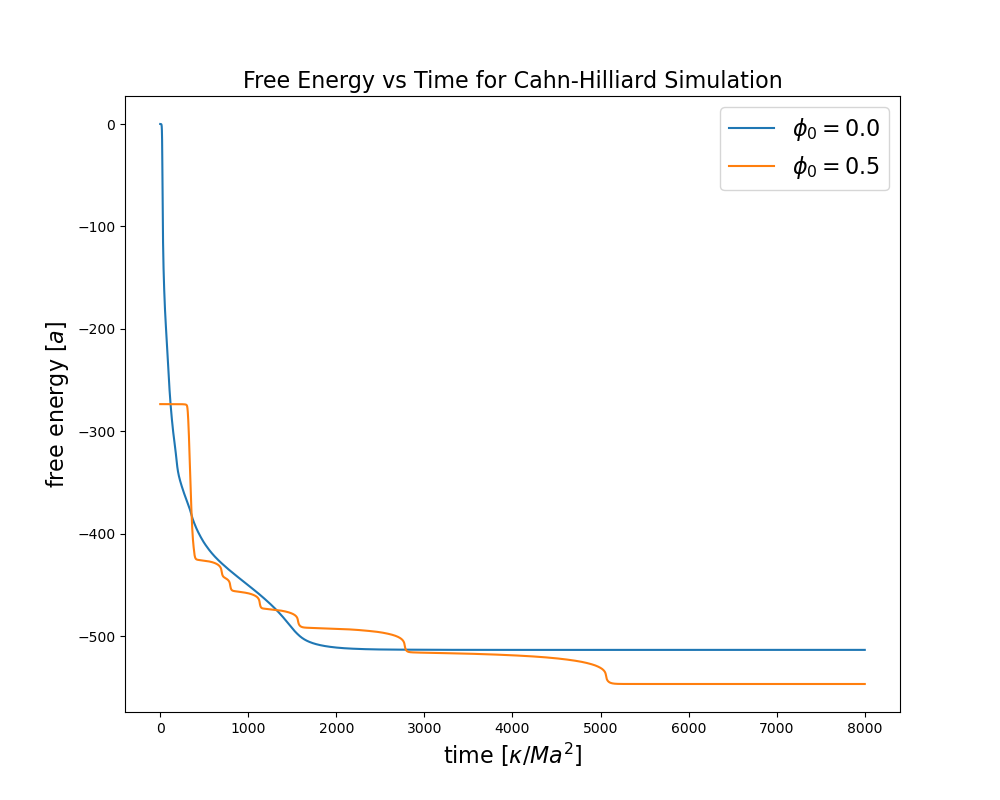
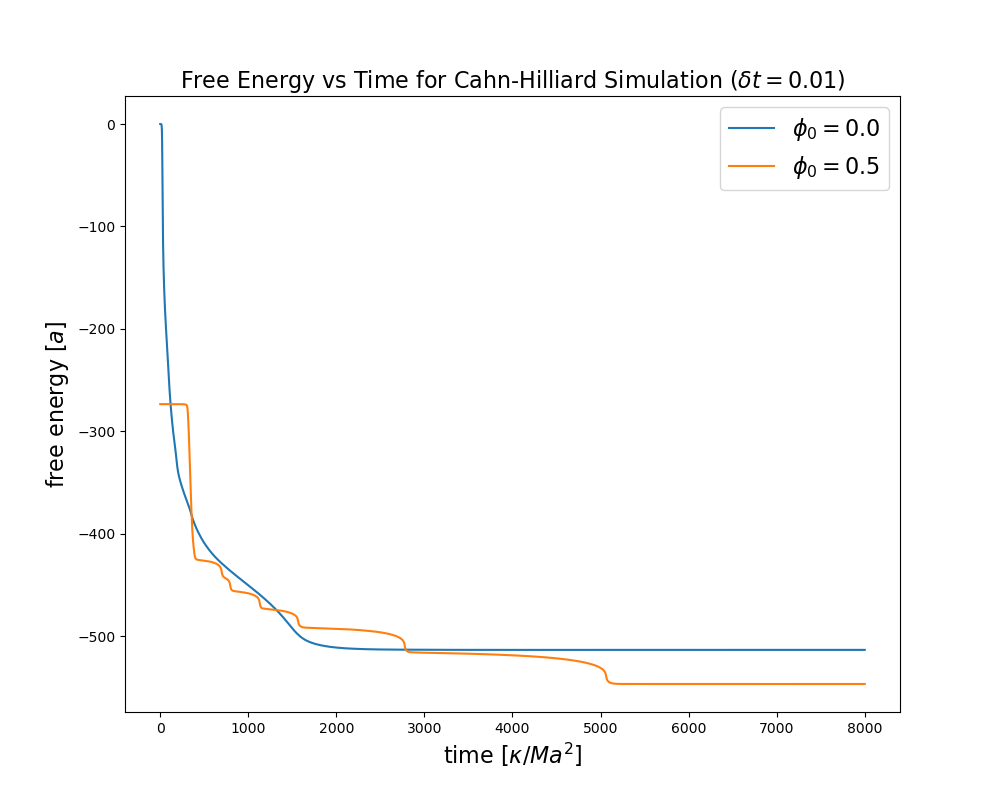
timestep in cahn plot task 5

Changed region(s): [[0.186, 0.0625, 0.837, 0.125]]

diff --git a/checkpoint 3/cahn.py b/checkpoint 3/cahn.py
@@ -183,13 +183,15 @@ class CahnHilliard:
 
         data1 = np.loadtxt(file1, delimiter=',', skiprows=1)
         data2 = np.loadtxt(file2, delimiter=',', skiprows=1)
+        # Infer time step
+        dt = np.round(data1[-1, 0] / len(data1[:, 0]), 6)
 
         plt.figure(figsize=[10, 8])
         plt.plot(data1[:, 0], data1[:, 1], label=r'$\phi_0 = 0.0$')
         plt.plot(data2[:, 0], data2[:, 1], label=r'$\phi_0 = 0.5$')
         plt.xlabel(r'time [$\kappa/Ma^2$]', fontsize=16)
         plt.ylabel(r'free energy [$a$]', fontsize=16)
-        plt.title('Free Energy vs Time for Cahn-Hilliard Simulation', fontsize=16)
+        plt.title(rf'Free Energy vs Time for Cahn-Hilliard Simulation ($\delta t$ = {dt})', fontsize=16)
         plt.legend(fontsize=16)
         plt.show()
 
